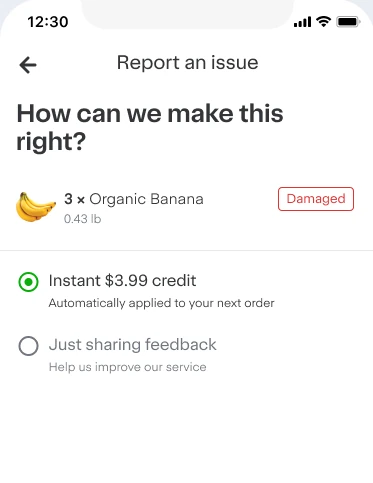
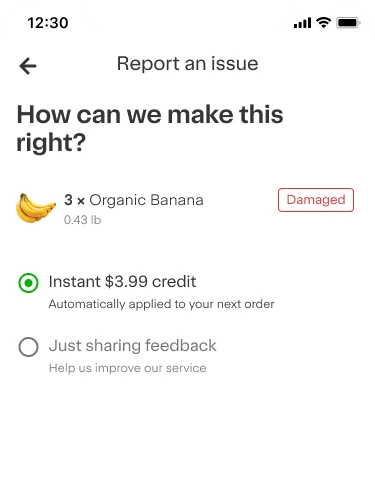
Case studies: clean dissolve between variants; Instacart mockups shown as-is
- All decks: switching between screens in a sequence no longer scales.
  The new screen fades in on top of the old one, which stays fully
  visible underneath and then drops away, so identically framed mocks
  swap in one clean dissolve instead of a zoom and a washed-out blend.
- Order Issue Reporting: mockups are recut whole from the deck, with the
  deck's background made transparent, and shown exactly as drawn: no
  cropping, no frame box, shadow or rounding.

Claude-Session: https://claude.ai/code/session_01T2xkTaQvJ7XW7aHGJUvQim

diff --git a/instacart/index.html b/instacart/index.html
@@ -216,8 +216,10 @@ ol.list.hard li i{font-style:normal;color:var(--grey)}
 
 /* Sequences: stacked screens that crossfade (Add a location steps, switcher models) */
 .flowseq,.models{display:grid;gap:var(--gap-m)}
-.frame.seq img{position:absolute;inset:0;width:100%;height:100%;object-fit:var(--fit);object-position:center!important;opacity:0;transform:scale(1.015);transition:opacity .6s var(--ease),transform 1.2s var(--ease)}
-.frame.seq img.on{opacity:1;transform:none}
+/* Switching variants: no zoom. The new screen fades in on top of the old one, which stays fully visible underneath
+   until the fade is done and then drops away, so the swap reads as one clean dissolve, never a washed-out blend. */
+.frame.seq img{position:absolute;inset:0;width:100%;height:100%;object-fit:var(--fit);object-position:center!important;opacity:0;z-index:0;transition:opacity 0s linear .34s}
+.frame.seq img.on{opacity:1;z-index:1;transition:opacity .34s var(--ease)}
 .steps{display:flex;gap:4px;overflow-x:auto;scrollbar-width:none;margin-inline:calc(var(--pad-x) * -1);padding-inline:var(--pad-x)}
 .steps::-webkit-scrollbar{display:none}
 .steps button{flex:1 0 auto;min-width:72px;display:grid;gap:6px;text-align:left;background:none;border:0;border-top:2px solid var(--rule);padding:10px 0 0;cursor:pointer;color:var(--faint);transition:border-color .3s,color .3s}
@@ -368,6 +370,10 @@ dialog form button{background:none;border:0;color:#C9CFCE;font:400 12px var(--mo
 }
 
 /* ---- Order Issue Reporting additions ---- */
+/* The mockups are shown exactly as drawn in the deck: whole phones on a transparent ground, never cropped,
+   and without the frame box, shadow or rounding the other decks put around flat screens */
+.deck .frame{background:none;box-shadow:none;border-radius:0;overflow:visible}
+.deck .frame.seq img,.deck .frame img{object-fit:contain!important;object-position:center top!important}
 /* Phone-shaped screens (as in Multi Ticket): the frame takes the phone's proportions and a fixed height */
 .tall .frame{width:auto;height:min(50svh,460px);aspect-ratio:var(--r);margin-inline:auto}
 .models.tall,.flowseq.tall{justify-items:start}
@@ -392,7 +398,7 @@ dialog form button{background:none;border:0;color:#C9CFCE;font:400 12px var(--mo
 /* Spend audit: the sheet, with what it showed */
 .audit{display:grid;gap:var(--gap-m)}
 .audit .frame{aspect-ratio:var(--r);cursor:zoom-in}
-.audit .frame img{width:100%;height:100%;object-fit:cover;object-position:top left;display:block}
+.audit .frame img{width:100%;height:100%;display:block}
 .marks{display:grid;gap:var(--gap-s);align-content:start}
 .marks p{display:grid;gap:4px;font:400 var(--t-small)/var(--lh-small) var(--body);color:var(--ink)}
 
@@ -400,7 +406,7 @@ dialog form button{background:none;border:0;color:#C9CFCE;font:400 12px var(--mo
 .lead{display:grid;gap:var(--gap-s);align-content:start}
 .row4{display:grid;grid-template-columns:repeat(2,minmax(0,1fr));gap:var(--gap-m) var(--gap-s)}
 .row4 figure{display:grid;gap:8px;align-content:start}
-.row4 .shot{position:relative;aspect-ratio:152/240;border-radius:10px;overflow:hidden;background:#fff;box-shadow:0 0 0 1px rgb(27 32 31 / .1),0 10px 24px -14px rgb(27 32 31 / .45);cursor:zoom-in}
+.row4 .shot{position:relative;display:block;cursor:zoom-in}
 .row4 .shot img{width:100%;display:block}
 .row4 figcaption{font:400 13px/18px var(--body);color:var(--grey)}
 .row4 figcaption b{display:block;font-weight:500;color:var(--no)}
@@ -482,7 +488,6 @@ dialog form button{background:none;border:0;color:#C9CFCE;font:400 12px var(--mo
   .content > .lead .statement,.content > .lead .small{grid-column:auto}
   .content > .row4,.content > .ladder,.content > .tax-new{grid-column:6 / span 7}
   .row4{grid-template-columns:repeat(4,minmax(0,1fr));column-gap:calc(var(--u)*20)}
-  .row4 .shot{border-radius:calc(var(--u)*12)}
   .row4 figcaption{font-size:calc(var(--u)*14);line-height:calc(var(--u)*20)}
   .tri{grid-column:1 / -1;grid-template-columns:repeat(3,minmax(0,1fr));column-gap:calc(var(--u)*24);margin-top:calc(var(--u)*60)}
   .ladder li{padding-bottom:calc(var(--u)*22);grid-template-columns:calc(var(--u)*24) minmax(0,1fr)}
@@ -615,7 +620,7 @@ dialog form button{background:none;border:0;color:#C9CFCE;font:400 12px var(--mo
 <section class="slide screens" data-name="Initial UX direction"><div class="stage">
   <div class="head"><h3 class="title">Initial UX direction</h3><span class="mono">Prototypes</span></div>
   <div class="content"><div class="models tall">
-    <div class="frame seq" data-zoom role="button" tabindex="0" aria-label="Enlarge screen" style="--r:247/537"><img src="img/orders.webp" alt="Shopping cart" style="object-position:top left" decoding="async"><img src="img/orders.webp" alt="One &amp; done" style="object-position:top left" loading="lazy" decoding="async"></div>
+    <div class="frame seq" data-zoom role="button" tabindex="0" aria-label="Enlarge screen" style="--r:258/542"><img src="img/orders.webp" alt="Shopping cart" style="object-position:top left" decoding="async"><img src="img/orders.webp" alt="One &amp; done" style="object-position:top left" loading="lazy" decoding="async"></div>
     <div class="steps tabs" role="group" aria-label="Initial UX direction options"><button type="button" aria-pressed="true"><span class="mono">Option A</span><b>Shopping cart</b></button><button type="button" aria-pressed="false"><span class="mono">Option B</span><b>One &amp; done</b></button></div>
     <div class="notes"><div class="note on"><ul class="pc"><li class="y">Report multiple issues at once</li><li class="y">An aggregated resolution amount is better perceived</li><li class="x">Still prone to gaming the system</li><li class="x">Added engineering complexity</li></ul></div><div class="note"><ul class="pc"><li class="y">A focused flow for one issue</li><li class="x">The resolution amount is relatively small</li><li class="y">A single-item flow makes it abuse-proof</li><li class="y">Straightforward to build</li></ul></div></div>
     <p class="foot">Divergent directions: two prototypes with debatable trade-offs, to bring foundational alignment.</p>
@@ -670,7 +675,7 @@ dialog form button{background:none;border:0;color:#C9CFCE;font:400 12px var(--mo
 <section class="slide screens" data-name="Exploring the UI"><div class="stage">
   <div class="head"><h3 class="title">Exploring the UI</h3><span class="mono">Issue and sub-issue</span></div>
   <div class="content"><div class="models tall">
-    <div class="frame seq" data-zoom role="button" tabindex="0" aria-label="Enlarge screen" style="--r:373/686"><img src="img/issue-1.webp" alt="Classic radios" style="object-position:top left" decoding="async"><img src="img/issue-2.webp" alt="Big buttons" style="object-position:top left" loading="lazy" decoding="async"><img src="img/issue-3.webp" alt="Easy pills" style="object-position:top left" loading="lazy" decoding="async"></div>
+    <div class="frame seq" data-zoom role="button" tabindex="0" aria-label="Enlarge screen" style="--r:388/689"><img src="img/issue-1.webp" alt="Classic radios" style="object-position:top left" decoding="async"><img src="img/issue-2.webp" alt="Big buttons" style="object-position:top left" loading="lazy" decoding="async"><img src="img/issue-3.webp" alt="Easy pills" style="object-position:top left" loading="lazy" decoding="async"></div>
     <div class="steps tabs" role="group" aria-label="Exploring the UI options"><button type="button" aria-pressed="true"><span class="mono">Option a</span><b>Classic radios</b></button><button type="button" aria-pressed="false"><span class="mono">Option b</span><b>Big buttons</b></button><button type="button" aria-pressed="false"><span class="mono">Selected</span><b>Easy pills</b></button></div>
     <div class="notes"><div class="note on">Radio buttons for each issue, with sub-issue chips nested under the one you pick.</div><div class="note">A large row for each issue that opens into its sub-issue chips.</div><div class="note">Sub-issues as pills, then how many you received and optional details, on one screen.</div></div>
     <p class="foot">Focusing on the details. Existing components didn&rsquo;t feel native, so we refined how picking an issue and sub-issue feels.</p>
@@ -680,7 +685,7 @@ dialog form button{background:none;border:0;color:#C9CFCE;font:400 12px var(--mo
 <section class="slide screens" data-name="Resolution selection"><div class="stage">
   <div class="head"><h3 class="title">Resolution selection</h3></div>
   <div class="content"><div class="flowseq tall">
-    <div class="frame seq" data-zoom role="button" tabindex="0" aria-label="Enlarge screen" style="--r:373/483"><img src="img/res-1.webp" alt="Radios" style="object-position:top left" decoding="async"><img src="img/res-2.webp" alt="Credit tag" style="object-position:top left" loading="lazy" decoding="async"><img src="img/res-3.webp" alt="Credit preference" style="object-position:top left" loading="lazy" decoding="async"><img src="img/res-4.webp" alt="Cards" style="object-position:top left" loading="lazy" decoding="async"><img src="img/res-5.webp" alt="Outlined cards" style="object-position:top left" loading="lazy" decoding="async"><img src="img/res-6.webp" alt="Filled card" style="object-position:top left" loading="lazy" decoding="async"></div>
+    <div class="frame seq" data-zoom role="button" tabindex="0" aria-label="Enlarge screen" style="--r:388/486"><img src="img/res-1.webp" alt="Radios" style="object-position:top left" decoding="async"><img src="img/res-2.webp" alt="Credit tag" style="object-position:top left" loading="lazy" decoding="async"><img src="img/res-3.webp" alt="Credit preference" style="object-position:top left" loading="lazy" decoding="async"><img src="img/res-4.webp" alt="Cards" style="object-position:top left" loading="lazy" decoding="async"><img src="img/res-5.webp" alt="Outlined cards" style="object-position:top left" loading="lazy" decoding="async"><img src="img/res-6.webp" alt="Filled card" style="object-position:top left" loading="lazy" decoding="async"></div>
     <div class="steps" role="group" aria-label="Resolution selection options"><button type="button" aria-pressed="true"><span class="mono">01</span><b>Radios</b></button><button type="button" aria-pressed="false"><span class="mono">02</span><b>Credit tag</b></button><button type="button" aria-pressed="false"><span class="mono">03</span><b>Credit preference</b></button><button type="button" aria-pressed="false"><span class="mono">04</span><b>Cards</b></button><button type="button" aria-pressed="false"><span class="mono">05</span><b>Outlined cards</b></button><button type="button" aria-pressed="false"><span class="mono">06</span><b>Filled card</b></button></div>
     
     <p class="foot">Six takes on choosing how we make it right: instant credit, or just sharing feedback.</p>
@@ -690,7 +695,7 @@ dialog form button{background:none;border:0;color:#C9CFCE;font:400 12px var(--mo
 <section class="slide screens" data-name="Weights &amp; measures"><div class="stage">
   <div class="head"><h3 class="title">Weights &amp; measures</h3><span class="mono">Mild to wild</span></div>
   <div class="content"><div class="models tall">
-    <div class="frame seq" data-zoom role="button" tabindex="0" aria-label="Enlarge screen" style="--r:266/460"><img src="img/wm-1.webp" alt="More or less" style="object-position:top left" decoding="async"><img src="img/wm-2.webp" alt="Weight stepper" style="object-position:top left" loading="lazy" decoding="async"><img src="img/wm-3.webp" alt="Scan to detect" style="object-position:top left" loading="lazy" decoding="async"></div>
+    <div class="frame seq" data-zoom role="button" tabindex="0" aria-label="Enlarge screen" style="--r:267/457"><img src="img/wm-1.webp" alt="More or less" style="object-position:top left" decoding="async"><img src="img/wm-2.webp" alt="Weight stepper" style="object-position:top left" loading="lazy" decoding="async"><img src="img/wm-3.webp" alt="Scan to detect" style="object-position:top left" loading="lazy" decoding="async"></div>
     <div class="steps tabs" role="group" aria-label="Weights &amp; measures options"><button type="button" aria-pressed="true"><span class="mono">Selected &middot; mild</span><b>More or less</b></button><button type="button" aria-pressed="false"><span class="mono">Option b</span><b>Weight stepper</b></button><button type="button" aria-pressed="false"><span class="mono">Option c &middot; wild</span><b>Scan to detect</b></button></div>
     <div class="notes"><div class="note on">Tell us whether you received more or less.</div><div class="note">Step the weight you received, in 0.25 lb increments.</div><div class="note">Scan the item&rsquo;s barcode to detect what arrived.</div></div>
     <p class="foot">Capturing severity for weight-based items. Some produce and meat is ordered by count but sold by weight, so people need dynamic controls to report it.</p>

diff --git a/case-study/index.html b/case-study/index.html
@@ -216,8 +216,10 @@ ol.list.hard li i{font-style:normal;color:var(--grey)}
 
 /* Sequences: stacked screens that crossfade (Add a location steps, switcher models) */
 .flowseq,.models{display:grid;gap:var(--gap-m)}
-.frame.seq img{position:absolute;inset:0;width:100%;height:100%;object-fit:var(--fit);object-position:center!important;opacity:0;transform:scale(1.015);transition:opacity .6s var(--ease),transform 1.2s var(--ease)}
-.frame.seq img.on{opacity:1;transform:none}
+/* Switching variants: no zoom. The new screen fades in on top of the old one, which stays fully visible underneath
+   until the fade is done and then drops away, so the swap reads as one clean dissolve, never a washed-out blend. */
+.frame.seq img{position:absolute;inset:0;width:100%;height:100%;object-fit:var(--fit);object-position:center!important;opacity:0;z-index:0;transition:opacity 0s linear .34s}
+.frame.seq img.on{opacity:1;z-index:1;transition:opacity .34s var(--ease)}
 .steps{display:flex;gap:4px;overflow-x:auto;scrollbar-width:none;margin-inline:calc(var(--pad-x) * -1);padding-inline:var(--pad-x)}
 .steps::-webkit-scrollbar{display:none}
 .steps button{flex:1 0 auto;min-width:72px;display:grid;gap:6px;text-align:left;background:none;border:0;border-top:2px solid var(--rule);padding:10px 0 0;cursor:pointer;color:var(--faint);transition:border-color .3s,color .3s}

diff --git a/multi-ticket/index.html b/multi-ticket/index.html
@@ -216,8 +216,10 @@ ol.list.hard li i{font-style:normal;color:var(--grey)}
 
 /* Sequences: stacked screens that crossfade (Add a location steps, switcher models) */
 .flowseq,.models{display:grid;gap:var(--gap-m)}
-.frame.seq img{position:absolute;inset:0;width:100%;height:100%;object-fit:var(--fit);object-position:center!important;opacity:0;transform:scale(1.015);transition:opacity .6s var(--ease),transform 1.2s var(--ease)}
-.frame.seq img.on{opacity:1;transform:none}
+/* Switching variants: no zoom. The new screen fades in on top of the old one, which stays fully visible underneath
+   until the fade is done and then drops away, so the swap reads as one clean dissolve, never a washed-out blend. */
+.frame.seq img{position:absolute;inset:0;width:100%;height:100%;object-fit:var(--fit);object-position:center!important;opacity:0;z-index:0;transition:opacity 0s linear .34s}
+.frame.seq img.on{opacity:1;z-index:1;transition:opacity .34s var(--ease)}
 .steps{display:flex;gap:4px;overflow-x:auto;scrollbar-width:none;margin-inline:calc(var(--pad-x) * -1);padding-inline:var(--pad-x)}
 .steps::-webkit-scrollbar{display:none}
 .steps button{flex:1 0 auto;min-width:72px;display:grid;gap:6px;text-align:left;background:none;border:0;border-top:2px solid var(--rule);padding:10px 0 0;cursor:pointer;color:var(--faint);transition:border-color .3s,color .3s}

diff --git a/instacart/build.py b/instacart/build.py
@@ -19,6 +19,10 @@ mark = f'<svg class="mark" viewBox="{vb}" role="img" aria-label="Instacart"><pat
 
 CSS = """
 /* ---- Order Issue Reporting additions ---- */
+/* The mockups are shown exactly as drawn in the deck: whole phones on a transparent ground, never cropped,
+   and without the frame box, shadow or rounding the other decks put around flat screens */
+.deck .frame{background:none;box-shadow:none;border-radius:0;overflow:visible}
+.deck .frame.seq img,.deck .frame img{object-fit:contain!important;object-position:center top!important}
 /* Phone-shaped screens (as in Multi Ticket): the frame takes the phone's proportions and a fixed height */
 .tall .frame{width:auto;height:min(50svh,460px);aspect-ratio:var(--r);margin-inline:auto}
 .models.tall,.flowseq.tall{justify-items:start}
@@ -43,7 +47,7 @@ CSS = """
 /* Spend audit: the sheet, with what it showed */
 .audit{display:grid;gap:var(--gap-m)}
 .audit .frame{aspect-ratio:var(--r);cursor:zoom-in}
-.audit .frame img{width:100%;height:100%;object-fit:cover;object-position:top left;display:block}
+.audit .frame img{width:100%;height:100%;display:block}
 .marks{display:grid;gap:var(--gap-s);align-content:start}
 .marks p{display:grid;gap:4px;font:400 var(--t-small)/var(--lh-small) var(--body);color:var(--ink)}
 
@@ -51,7 +55,7 @@ CSS = """
 .lead{display:grid;gap:var(--gap-s);align-content:start}
 .row4{display:grid;grid-template-columns:repeat(2,minmax(0,1fr));gap:var(--gap-m) var(--gap-s)}
 .row4 figure{display:grid;gap:8px;align-content:start}
-.row4 .shot{position:relative;aspect-ratio:152/240;border-radius:10px;overflow:hidden;background:#fff;box-shadow:0 0 0 1px rgb(27 32 31 / .1),0 10px 24px -14px rgb(27 32 31 / .45);cursor:zoom-in}
+.row4 .shot{position:relative;display:block;cursor:zoom-in}
 .row4 .shot img{width:100%;display:block}
 .row4 figcaption{font:400 13px/18px var(--body);color:var(--grey)}
 .row4 figcaption b{display:block;font-weight:500;color:var(--no)}
@@ -133,7 +137,6 @@ CSS = """
   .content > .lead .statement,.content > .lead .small{grid-column:auto}
   .content > .row4,.content > .ladder,.content > .tax-new{grid-column:6 / span 7}
   .row4{grid-template-columns:repeat(4,minmax(0,1fr));column-gap:calc(var(--u)*20)}
-  .row4 .shot{border-radius:calc(var(--u)*12)}
   .row4 figcaption{font-size:calc(var(--u)*14);line-height:calc(var(--u)*20)}
   .tri{grid-column:1 / -1;grid-template-columns:repeat(3,minmax(0,1fr));column-gap:calc(var(--u)*24);margin-top:calc(var(--u)*60)}
   .ladder li{padding-bottom:calc(var(--u)*22);grid-template-columns:calc(var(--u)*24) minmax(0,1fr)}
@@ -298,7 +301,7 @@ SLIDES = f'''
   </div>
 </div></section>
 
-{tabs_slide("Initial UX direction", "247/537", [
+{tabs_slide("Initial UX direction", "258/542", [
     ("orders", "Option A", "Shopping cart", '<ul class="pc"><li class="y">Report multiple issues at once</li><li class="y">An aggregated resolution amount is better perceived</li><li class="x">Still prone to gaming the system</li><li class="x">Added engineering complexity</li></ul>'),
     ("orders", "Option B", "One &amp; done", '<ul class="pc"><li class="y">A focused flow for one issue</li><li class="x">The resolution amount is relatively small</li><li class="y">A single-item flow makes it abuse-proof</li><li class="y">Straightforward to build</li></ul>'),
 ], "Divergent directions: two prototypes with debatable trade-offs, to bring foundational alignment.", meta="Prototypes")}
@@ -348,18 +351,18 @@ SLIDES = f'''
   </div>
 </div></section>
 
-{tabs_slide("Exploring the UI", "373/686", [
+{tabs_slide("Exploring the UI", "388/689", [
     ("issue-1", "Option a", "Classic radios", "Radio buttons for each issue, with sub-issue chips nested under the one you pick."),
     ("issue-2", "Option b", "Big buttons", "A large row for each issue that opens into its sub-issue chips."),
     ("issue-3", "Selected", "Easy pills", "Sub-issues as pills, then how many you received and optional details, on one screen."),
 ], "Focusing on the details. Existing components didn&rsquo;t feel native, so we refined how picking an issue and sub-issue feels.", meta="Issue and sub-issue")}
 
-{tabs_slide("Resolution selection", "373/483", [
+{tabs_slide("Resolution selection", "388/486", [
     ("res-1", "01", "Radios", ""), ("res-2", "02", "Credit tag", ""), ("res-3", "03", "Credit preference", ""),
     ("res-4", "04", "Cards", ""), ("res-5", "05", "Outlined cards", ""), ("res-6", "06", "Filled card", ""),
 ], "Six takes on choosing how we make it right: instant credit, or just sharing feedback.", kind="flowseq")}
 
-{tabs_slide("Weights &amp; measures", "266/460", [
+{tabs_slide("Weights &amp; measures", "267/457", [
     ("wm-1", "Selected &middot; mild", "More or less", "Tell us whether you received more or less."),
     ("wm-2", "Option b", "Weight stepper", "Step the weight you received, in 0.25 lb increments."),
     ("wm-3", "Option c &middot; wild", "Scan to detect", "Scan the item&rsquo;s barcode to detect what arrived."),
